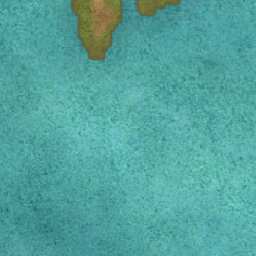
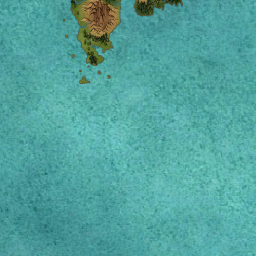
add Hokai and Shizomi

Changed region(s): [[0.25, 0.0, 0.7188, 0.3438]]

diff --git a/map-tiles.html b/map-tiles.html
@@ -29,7 +29,7 @@
       var map = L.map('map').setView([0.0, 0.0], 7.0);
       L.tileLayer('file:///C%3A/Users/grant/Desktop/Workspace/dnd-map-tiles/{z}/{x}/{y}.png', {
         minZoom: 2,
-        maxZoom: 6,
+        maxZoom: 7,
         tms: false,
         attribution: 'Generated by TilesXYZ'
       }).addTo(map);
